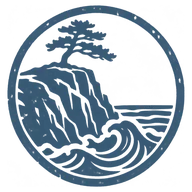
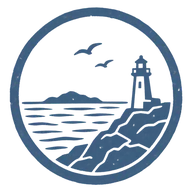
일출·낙조·바다 도장 다시 그림: 퍼지는 햇살·말린 큰 파도 뺌(10/4 사용자)
- ilchul: 반원 해 + 햇살이 욱일기로 읽혀서 촛대바위 해돋이(작은 해, 햇살 없음)로 바꿈
- bada: 일본 판화식 말린 큰 파도 대신 등대 곶으로 바꿈
- design-guide 9-2에 '쓰지 않는 그림' 기준과 파일 크기 범위 고침

Claude-Session: https://claude.ai/code/session_01PSTcLEimaJHjPQm2nS77VJ

diff --git a/docs/design-guide.md b/docs/design-guide.md
@@ -175,7 +175,7 @@
 ### 9-2. 도장 그림
 - 도장 그림은 **그 장면의 대표 풍경(풍경 종류 첫 번째)** 그림 13가지입니다. 장소 이름과 날짜는 그림이 아니라 화면 글자입니다(그림 안에 글자 없음).
 - **스타일: ① 판화 도장(10/4 사용자 확정).** 한 가지 색 잉크로 찍은 고무도장 느낌의 판화 그림, 둥근 테두리, 투명 바탕. 그림 안에 글자·숫자는 넣지 않습니다.
-- **파일:** `public/stamps/<풍경 id>.webp`(192px — 목록 78px·장면 상세 상자 60px용, 한 장 21~25KB)와 `public/stamps/<풍경 id>-384.webp`(384px — 도장 찍히는 순간 168px용, 64~89KB, 그 순간에만 불러옴). 풍경 id는 `src/domain/sceneTypes.ts`와 같습니다. 저장한 곳 탭과 장면 상세에서만 불러오고, 첫 화면에서는 불러오지 않습니다.
+- **파일:** `public/stamps/<풍경 id>.webp`(192px — 목록 78px·장면 상세 상자 60px용, 한 장 19~27KB)와 `public/stamps/<풍경 id>-384.webp`(384px — 도장 찍히는 순간 168px용, 52~89KB, 그 순간에만 불러옴). 풍경 id는 `src/domain/sceneTypes.ts`와 같습니다. 저장한 곳 탭과 장면 상세에서만 불러오고, 첫 화면에서는 불러오지 않습니다.
 - **색:** 그 풍경이 가장 좋은 계절의 색입니다. 다녀온 날 글자(9-1)도 같은 색을 씁니다. 여러 계절에 걸치거나 언제나 볼 수 있는 풍경은 그림에 어울리는 색을 정했습니다.
 
 | 색 | 풍경 id(이름) |
@@ -186,6 +186,7 @@
 | 겨울 #466A86 | `seolgyeong`(설경·상고대) · `unhae`(운해·물안개 — 구름·물 색) · `bada`(바다 절경 — 바다 색) |
 
 - 그림은 힉스필드(GPT Image 2.5)로 만들었고, 벚꽃·바다 시안을 참고 그림으로 넣어 13가지의 선 굵기·질감을 맞췄습니다. 단풍은 캐나다 국기 모양이 아닌 가늘게 갈라진 단풍잎 + 은행잎으로 다시 그렸습니다. 다시 만들 때의 작업 번호와 문장 틀은 프로젝트 문서 '디자인 세션 기록' 6장에 있습니다.
+- **쓰지 않는 그림(10/4 사용자):** 해는 **퍼지는 햇살 없이** 작은 해로만 그립니다. 반원 해 + 퍼지는 햇살은 욱일기로 읽힙니다. 일본 판화식 **말린 큰 파도**도 쓰지 않습니다. 그래서 `ilchul`은 **촛대바위 해돋이**(바위 두 개 + 수평선의 작은 해), `bada`는 **등대 곶**(바위 곶 위 등대 + 잔잔한 바다)으로 다시 그렸습니다. 새 그림·아이콘을 만들 때도 같은 기준입니다.
 - 풍경 이름(13가지)이 작가 확인으로 바뀌어도 그림과 파일 이름(id)은 그대로 씁니다.
 
 ### 9-3. 빈 상태와 그 밖의 상태
